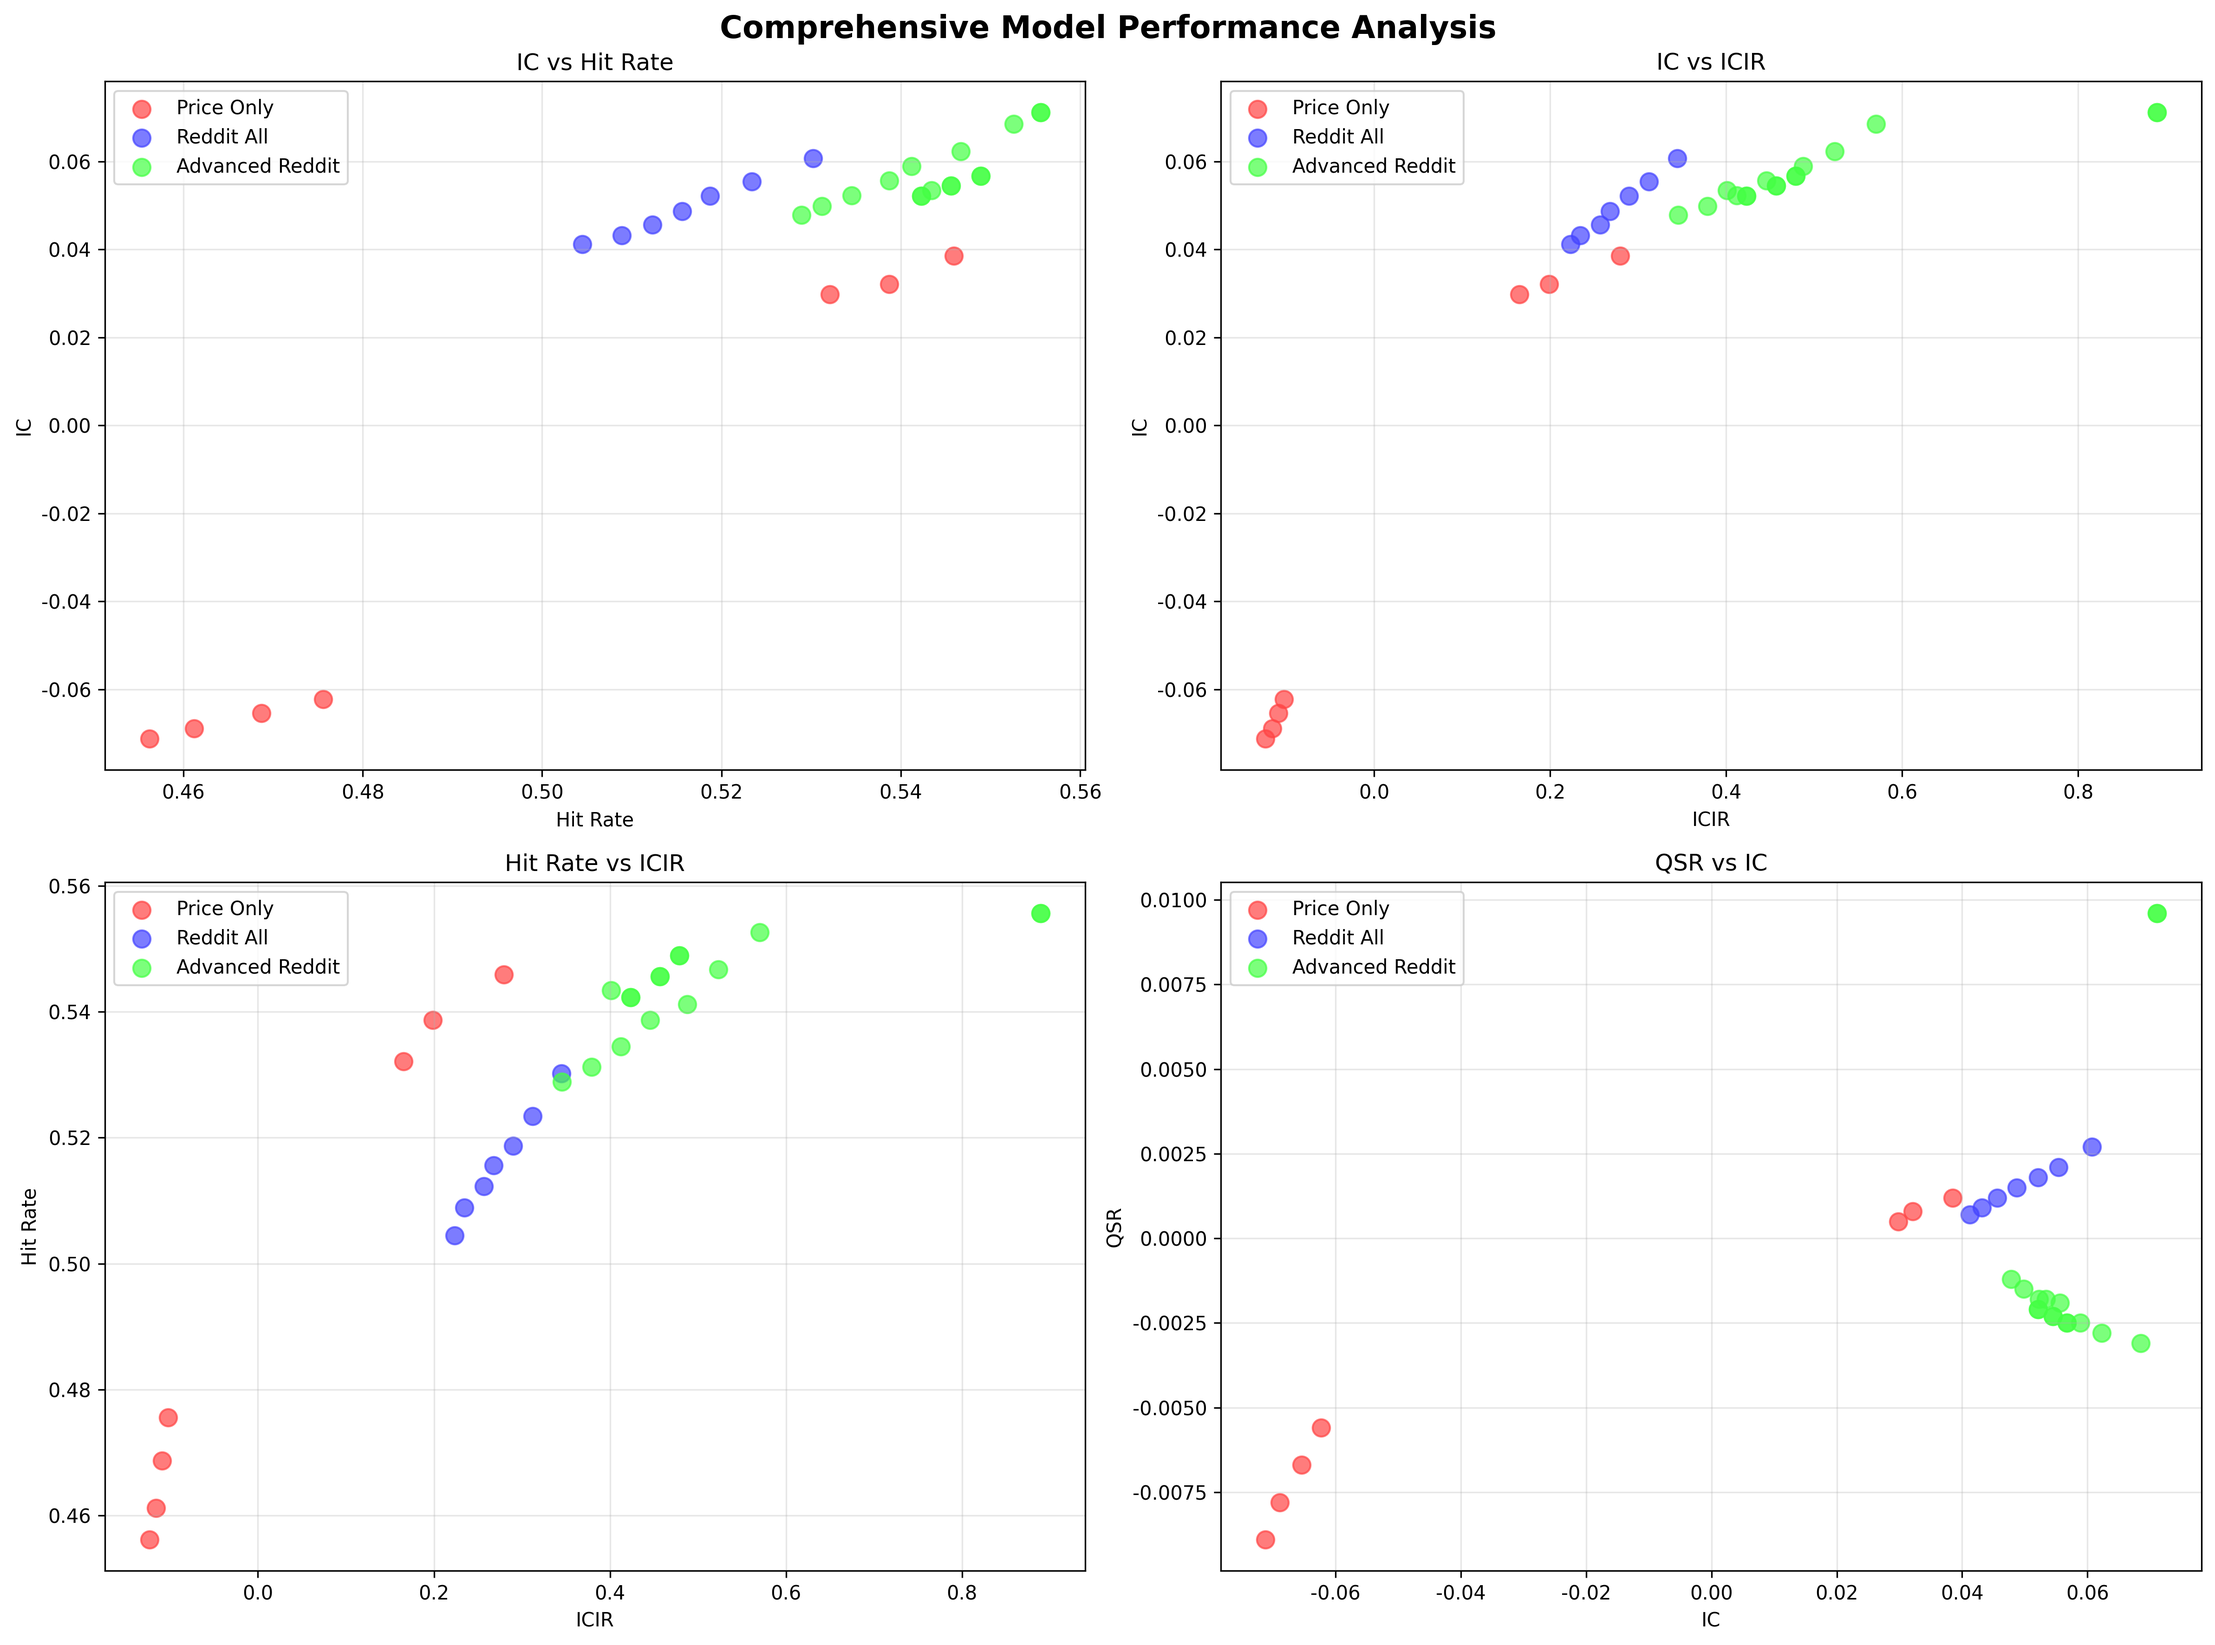
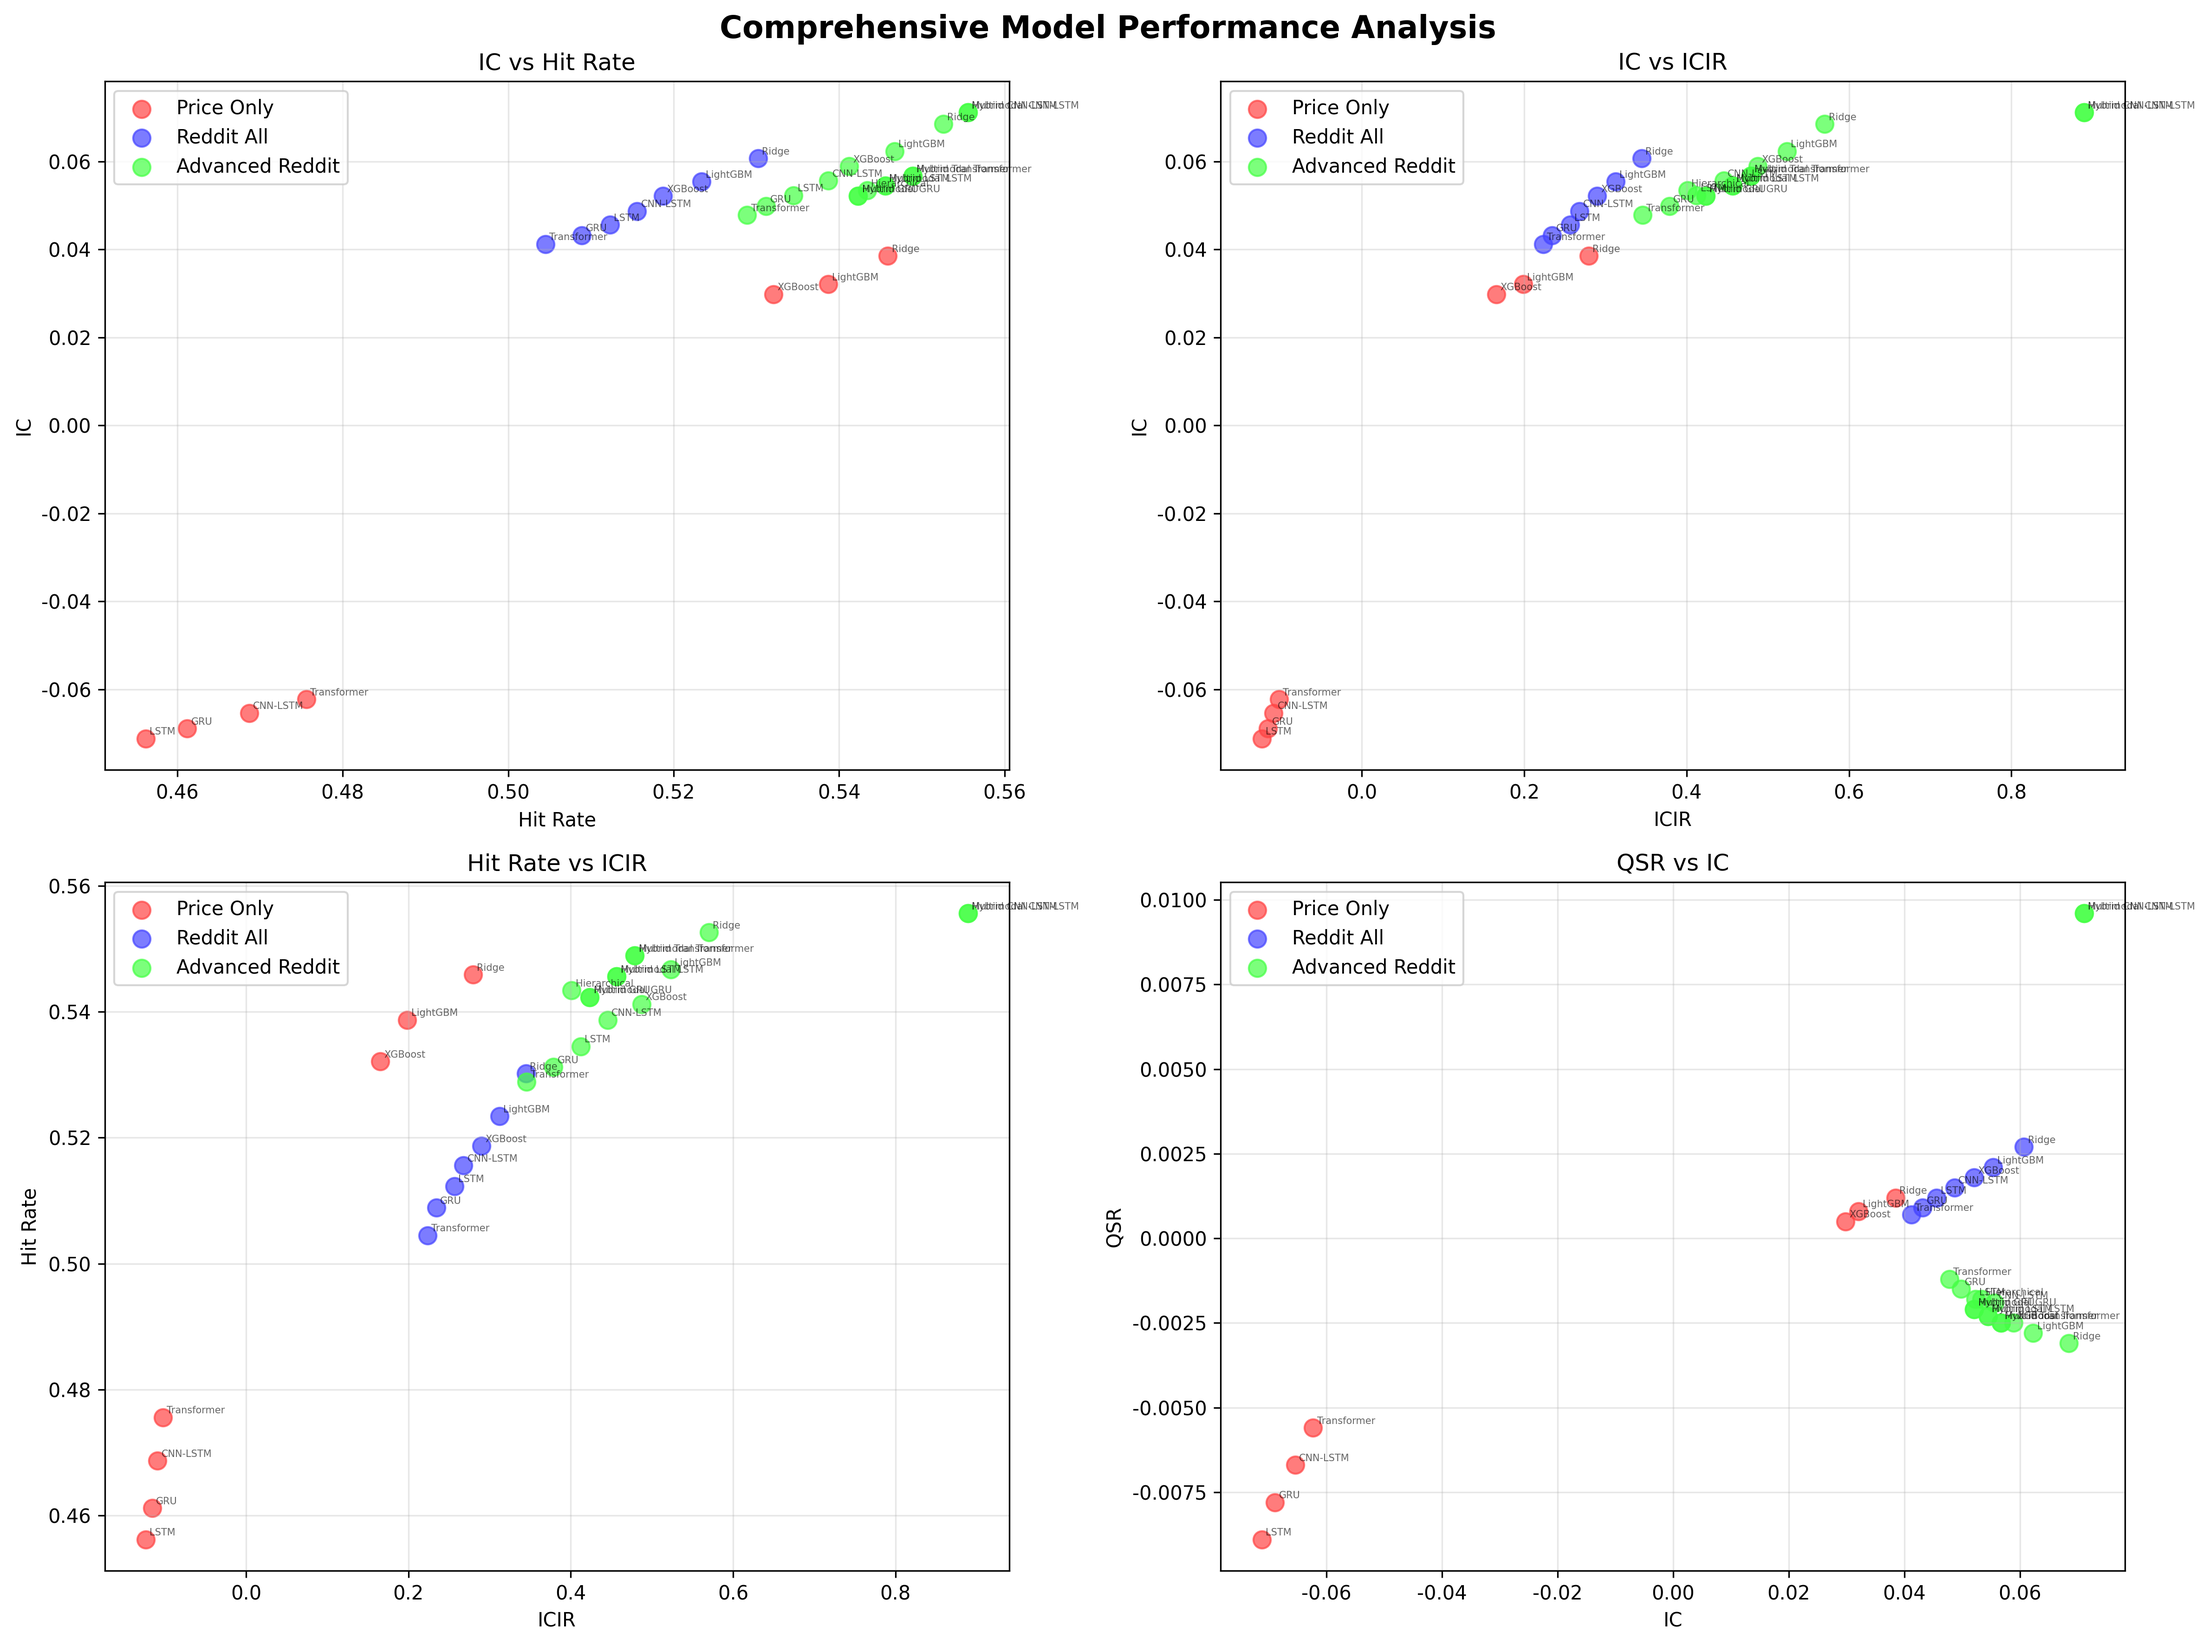
Improve model performance visualization - cleaner labels
- Remove redundant model type suffixes (Price Only, Reddit All, Advanced Reddit)
- Reduce font size for model names (6px for main plots, 5px for subplots)
- Simplify model labels to show only algorithm names (Ridge, LSTM, etc.)
- Improve readability with smaller, less cluttered annotations
- Maintain color coding for easy identification of model types

diff --git a/scripts/analysis/model_performance_visualization.py b/scripts/analysis/model_performance_visualization.py
@@ -125,12 +125,24 @@ def create_performance_plot(df, x_axis='Hit_Rate', y_axis='IC', title_suffix='')
                        label=f'{model_type.replace("_", " ")}',
                        edgecolors='black', linewidth=0.5)
             
-            # 모델명 라벨 추가
+            # 모델명 라벨 추가 (간소화된 이름)
             for idx, row in subset.iterrows():
-                plt.annotate(idx.replace('_', ' '), 
+                # 모델명 간소화
+                model_name = idx.replace('_', ' ')
+                # 중복 부분 제거
+                if 'Price Only' in model_name:
+                    model_name = model_name.replace(' Price Only', '')
+                elif 'Reddit All' in model_name:
+                    model_name = model_name.replace(' Reddit All', '')
+                elif 'Advanced Reddit' in model_name:
+                    model_name = model_name.replace(' Advanced Reddit', '')
+                elif 'Basic' in model_name:
+                    model_name = model_name.replace(' Basic', '')
+                
+                plt.annotate(model_name, 
                            (row[x_axis], row[y_axis]),
-                           xytext=(5, 5), textcoords='offset points',
-                           fontsize=8, alpha=0.8)
+                           xytext=(3, 3), textcoords='offset points',
+                           fontsize=6, alpha=0.7)
     
     # 축 라벨 및 제목
     plt.xlabel(f'{x_axis.replace("_", " ")}', fontsize=12, fontweight='bold')
@@ -201,6 +213,24 @@ def create_comparison_plots():
             ax1.scatter(subset['Hit_Rate'], subset['IC'], 
                        c=color_mapping[model_type], s=80, alpha=0.7,
                        label=f'{model_type.replace("_", " ")}')
+            
+            # 모델명 라벨 추가 (간소화된 이름)
+            for idx, row in subset.iterrows():
+                model_name = idx.replace('_', ' ')
+                if 'Price Only' in model_name:
+                    model_name = model_name.replace(' Price Only', '')
+                elif 'Reddit All' in model_name:
+                    model_name = model_name.replace(' Reddit All', '')
+                elif 'Advanced Reddit' in model_name:
+                    model_name = model_name.replace(' Advanced Reddit', '')
+                elif 'Basic' in model_name:
+                    model_name = model_name.replace(' Basic', '')
+                
+                ax1.annotate(model_name, 
+                           (row['Hit_Rate'], row['IC']),
+                           xytext=(2, 2), textcoords='offset points',
+                           fontsize=5, alpha=0.6)
+    
     ax1.set_xlabel('Hit Rate')
     ax1.set_ylabel('IC')
     ax1.set_title('IC vs Hit Rate')
@@ -216,6 +246,24 @@ def create_comparison_plots():
             ax2.scatter(subset['ICIR'], subset['IC'], 
                        c=color_mapping[model_type], s=80, alpha=0.7,
                        label=f'{model_type.replace("_", " ")}')
+            
+            # 모델명 라벨 추가 (간소화된 이름)
+            for idx, row in subset.iterrows():
+                model_name = idx.replace('_', ' ')
+                if 'Price Only' in model_name:
+                    model_name = model_name.replace(' Price Only', '')
+                elif 'Reddit All' in model_name:
+                    model_name = model_name.replace(' Reddit All', '')
+                elif 'Advanced Reddit' in model_name:
+                    model_name = model_name.replace(' Advanced Reddit', '')
+                elif 'Basic' in model_name:
+                    model_name = model_name.replace(' Basic', '')
+                
+                ax2.annotate(model_name, 
+                           (row['ICIR'], row['IC']),
+                           xytext=(2, 2), textcoords='offset points',
+                           fontsize=5, alpha=0.6)
+    
     ax2.set_xlabel('ICIR')
     ax2.set_ylabel('IC')
     ax2.set_title('IC vs ICIR')
@@ -231,6 +279,24 @@ def create_comparison_plots():
             ax3.scatter(subset['ICIR'], subset['Hit_Rate'], 
                        c=color_mapping[model_type], s=80, alpha=0.7,
                        label=f'{model_type.replace("_", " ")}')
+            
+            # 모델명 라벨 추가 (간소화된 이름)
+            for idx, row in subset.iterrows():
+                model_name = idx.replace('_', ' ')
+                if 'Price Only' in model_name:
+                    model_name = model_name.replace(' Price Only', '')
+                elif 'Reddit All' in model_name:
+                    model_name = model_name.replace(' Reddit All', '')
+                elif 'Advanced Reddit' in model_name:
+                    model_name = model_name.replace(' Advanced Reddit', '')
+                elif 'Basic' in model_name:
+                    model_name = model_name.replace(' Basic', '')
+                
+                ax3.annotate(model_name, 
+                           (row['ICIR'], row['Hit_Rate']),
+                           xytext=(2, 2), textcoords='offset points',
+                           fontsize=5, alpha=0.6)
+    
     ax3.set_xlabel('ICIR')
     ax3.set_ylabel('Hit Rate')
     ax3.set_title('Hit Rate vs ICIR')
@@ -246,6 +312,24 @@ def create_comparison_plots():
             ax4.scatter(subset['IC'], subset['QSR'], 
                        c=color_mapping[model_type], s=80, alpha=0.7,
                        label=f'{model_type.replace("_", " ")}')
+            
+            # 모델명 라벨 추가 (간소화된 이름)
+            for idx, row in subset.iterrows():
+                model_name = idx.replace('_', ' ')
+                if 'Price Only' in model_name:
+                    model_name = model_name.replace(' Price Only', '')
+                elif 'Reddit All' in model_name:
+                    model_name = model_name.replace(' Reddit All', '')
+                elif 'Advanced Reddit' in model_name:
+                    model_name = model_name.replace(' Advanced Reddit', '')
+                elif 'Basic' in model_name:
+                    model_name = model_name.replace(' Basic', '')
+                
+                ax4.annotate(model_name, 
+                           (row['IC'], row['QSR']),
+                           xytext=(2, 2), textcoords='offset points',
+                           fontsize=5, alpha=0.6)
+    
     ax4.set_xlabel('IC')
     ax4.set_ylabel('QSR')
     ax4.set_title('QSR vs IC')
